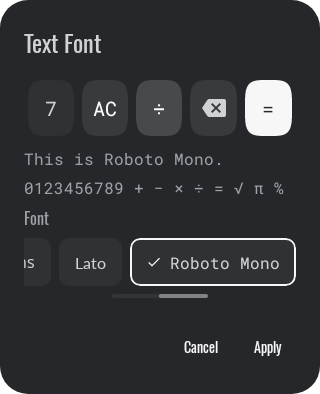
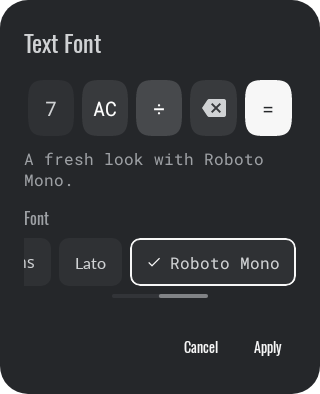
Simplify the font preview caption

diff --git a/app/src/main/java/net/smartlogic/unitconverter/theme/AppearanceDialogs.kt b/app/src/main/java/net/smartlogic/unitconverter/theme/AppearanceDialogs.kt
@@ -177,8 +177,6 @@ fun TextFontDialog(onDismiss: () -> Unit) {
                     fontFamily = family, style = MaterialTheme.typography.bodyLarge,
                     modifier = Modifier.padding(vertical = spacing.sm))
                 Column(Modifier.weight(1f, fill = false).verticalScroll(rememberScrollState())) {
-                    Text(stringResource(R.string.appearance_font_sample),
-                        fontFamily = family, style = MaterialTheme.typography.bodyLarge)
                     Text(stringResource(R.string.appearance_font_choice),
                         style = MaterialTheme.typography.titleMedium,
                         modifier = Modifier.padding(vertical = spacing.sm))

diff --git a/docs/APPEARANCE_REVIEW.md b/docs/APPEARANCE_REVIEW.md
@@ -28,7 +28,7 @@ Apply; Flat still disables shape choices and remembers the last shape.
 The comparison sheets are review-only, not additional previews in the popup.
 
 The Text Font dialog now follows the same pattern: one live row of keys, a
-“This is <font name>” sentence, a mathematical sample and one horizontal selector.
+“A fresh look with <font name>” caption and one horizontal selector.
 Names in the selector each use their own font; only the preview text and key
 labels change while editing. The applied theme, button style and shape stay in
 place, and the font is saved only on Apply.
@@ -38,6 +38,11 @@ section. Equal remains accent-filled in every style; the Equal/BMI sheets use
 Circle to demonstrate the remembered shape in Flat.
 
 ## Validation scope
+
+Caption simplification (2026-10-31): removed the separate number/symbol sample
+line and changed the caption to “A fresh look with <font name>.” Debug assembly,
+all 11 appearance UI tests and lint passed again (0 lint errors). Updated captures
+include the simplified layout in light/dark themes and at 2× text.
 
 Font-dialog follow-up (2026-10-31): **55 targeted tests passed, zero failures**.
 Debug assembly succeeded; Android lint reported **0 errors, 406 warnings**.

diff --git a/docs/APPEARANCE.md b/docs/APPEARANCE.md
@@ -19,7 +19,7 @@ popup may scroll vertically in constrained windows; tool layouts are unchanged.
 
 Text Font uses the same preview row and horizontal selector. Each choice's name
 uses its own regular font. Selecting a choice updates the native key labels,
-“This is <font name>” text and mathematical sample together, without writing the
+“A fresh look with <font name>” caption together, without writing the
 font preference. The preview retains the applied button style, remembered shape
 and theme. Apply saves the selected font; Cancel, Back and outside taps discard
 the draft. Drafts survive saved-state restoration like the Buttons dialog.

diff --git a/docs/SETTINGS.md b/docs/SETTINGS.md
@@ -13,7 +13,7 @@
 
 - Appearance drafts, shared renderers, defaults and review captures: see [APPEARANCE.md](APPEARANCE.md). Reset affects only button style/remembered shape/font; Theme and Number format retain their existing behavior.
 
-- Text Font now mirrors Buttons: one live keypad row, a “This is <font name>”
+- Text Font now mirrors Buttons: one live keypad row, an “A fresh look with <font name>”
   sample and a horizontal selector with each font name in its own font. All
   preview changes stay local until Apply; cancellation and dismissal preserve the
   applied font. Both dialogs share the selector and native preview component.
